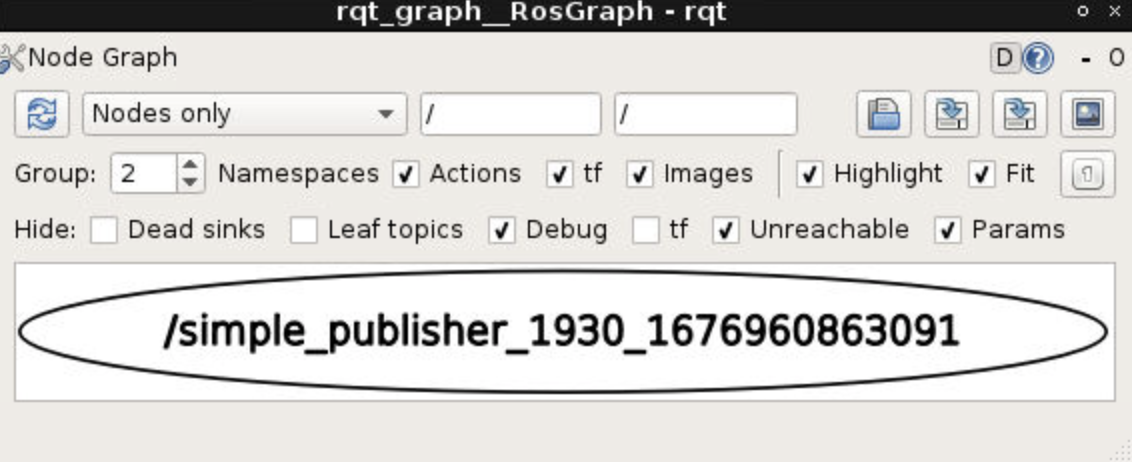
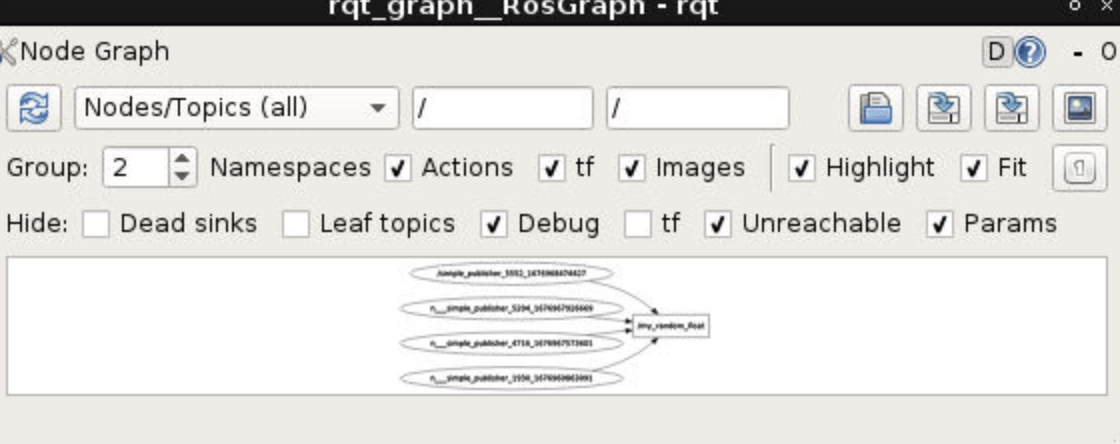
commit after question 2

Changed region(s): [[0.0, 0.4685, 1.0, 0.9077], [0.0, 0.0, 1.0, 0.2928], [0.0, 0.3221, 1.0, 0.4392]]

diff --git a/scripts/fake_scan_publisher.py b/scripts/fake_scan_publisher.py
@@ -1,0 +1,35 @@
+#!/usr/bin/env python 
+
+import rospy
+from sensor_msgs.msg import LaserScan
+import random
+import math 
+
+def talker():
+    pub = rospy.Publisher(rospy.get_param('fake_scan/pub_topic', '/fake_scan'), LaserScan, queue_size = 20)
+    rospy.init_node('fake_scan_publisher', anonymous = True)
+    rate = rospy.Rate(rospy.get_param('fake_scan/pub_rate', 20)) #20 hz
+
+    while not rospy.is_shutdown():
+        scan = LaserScan()
+        scan.header.stamp = rospy.Time.now() 
+        scan.header.frame_id = 'base_link'
+        scan.angle_min = eval(rospy.get_param('fake_scan/angle_min', '(-2.0/3.0)*math.pi'))
+        scan.angle_max = eval(rospy.get_param('fake_scan/angle_max', '(2.0/3.0)*math.pi'))
+        scan.angle_increment = eval(rospy.get_param('fake_scan/angle_increment', '(1.0/300.0)*math.pi'))
+        scan.scan_time = 1.0/rospy.get_param('fake_scan/pub_rate', 20)
+        scan.range_min = rospy.get_param('fake_scan/range_min', 1.0)
+        scan.range_max = rospy.get_param('fake_scan/range_max', 10.0)
+        scan.ranges = []
+
+        for i in range(int(round(abs((scan.angle_max - scan.angle_min)/scan.angle_increment))) + 1):
+            scan.ranges.append(random.uniform(scan.range_min, scan.range_max))
+
+        pub.publish(scan)
+        rate.sleep()
+
+if __name__ == '__main__':
+    try:
+        talker()
+    except rospy.ROSInterruptException:
+        pass

diff --git a/scripts/simple_subscriber.py b/scripts/simple_subscriber.py
@@ -1,0 +1,19 @@
+#!/usr/bin/env python
+import rospy
+from std_msgs.msg import Float32
+import math
+
+pub = rospy.Publisher('random_float_log', Float32, queue_size=10)
+
+def callback(data):
+    rospy.loginfo(rospy.get_caller_id() + "I heard %s", data.data)
+    rospy.loginfo("ln: %s", math.log(data.data))
+    pub.publish(math.log(data.data))
+
+def listener():
+    rospy.init_node('simple_subscriber', anonymous = True)
+    rospy.Subscriber('my_random_float', Float32, callback)
+    rospy.spin()
+
+if __name__ == '__main__':
+	listener()

diff --git a/scripts/simple_publisher.py b/scripts/simple_publisher.py
@@ -5,6 +5,7 @@ import rospy
 from std_msgs.msg import Float32
 import random
 
+#Publishes a random number between 0 and 10.
 def simple_publisher():
 	pub = rospy.Publisher('my_random_float', Float32, queue_size = 10)
 	rospy.init_node('simple_publisher', anonymous = True)
@@ -14,6 +15,10 @@ def simple_publisher():
 		rospy.loginfo(num)
 		pub.publish(num)
 		rate.sleep()
+
+
+
+
 
 if __name__ == '__main__':
 	try:
